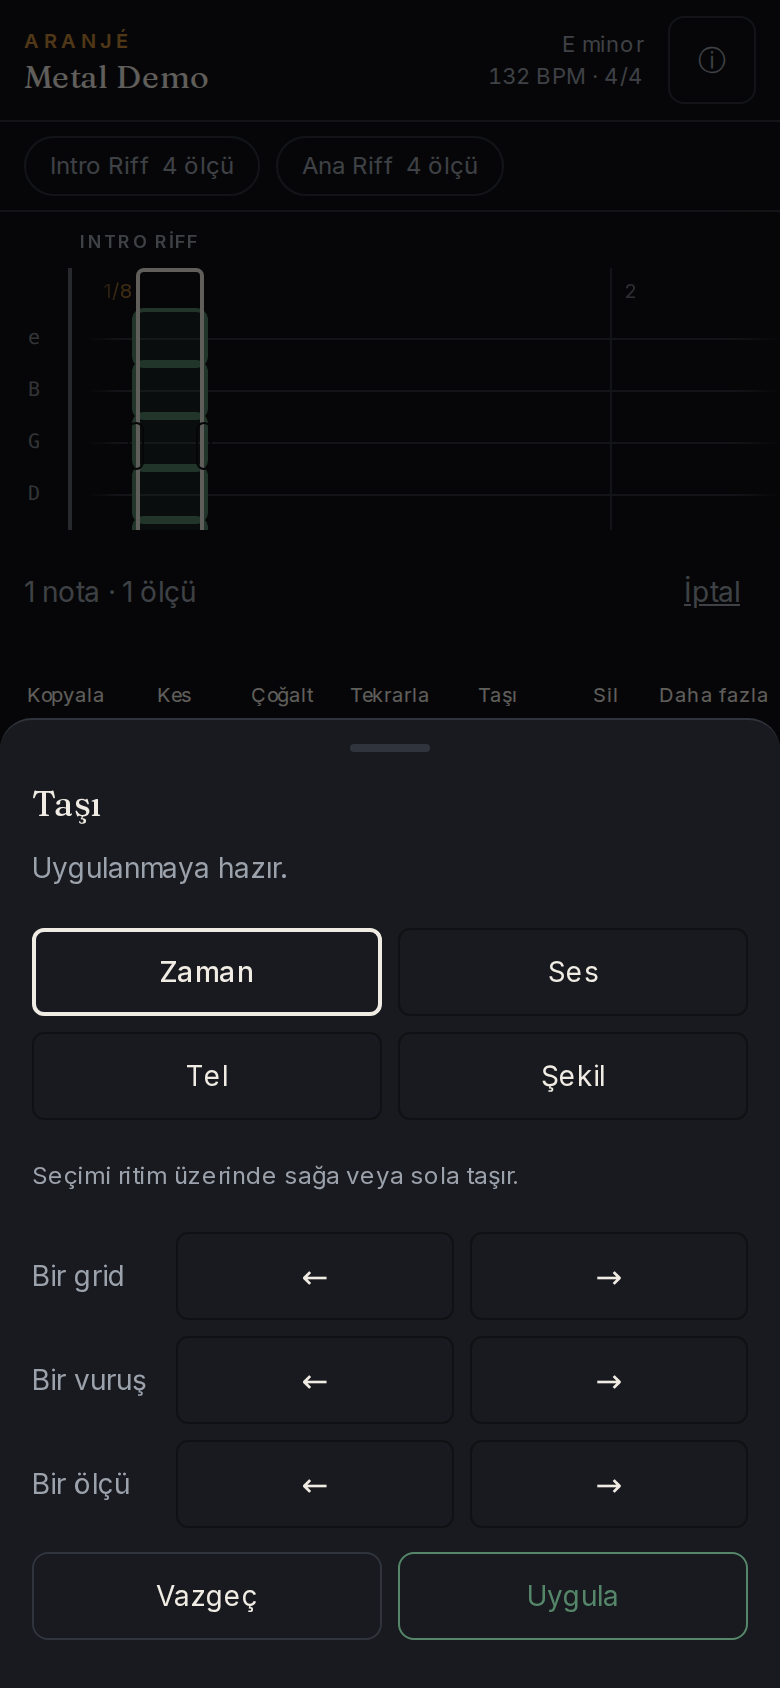
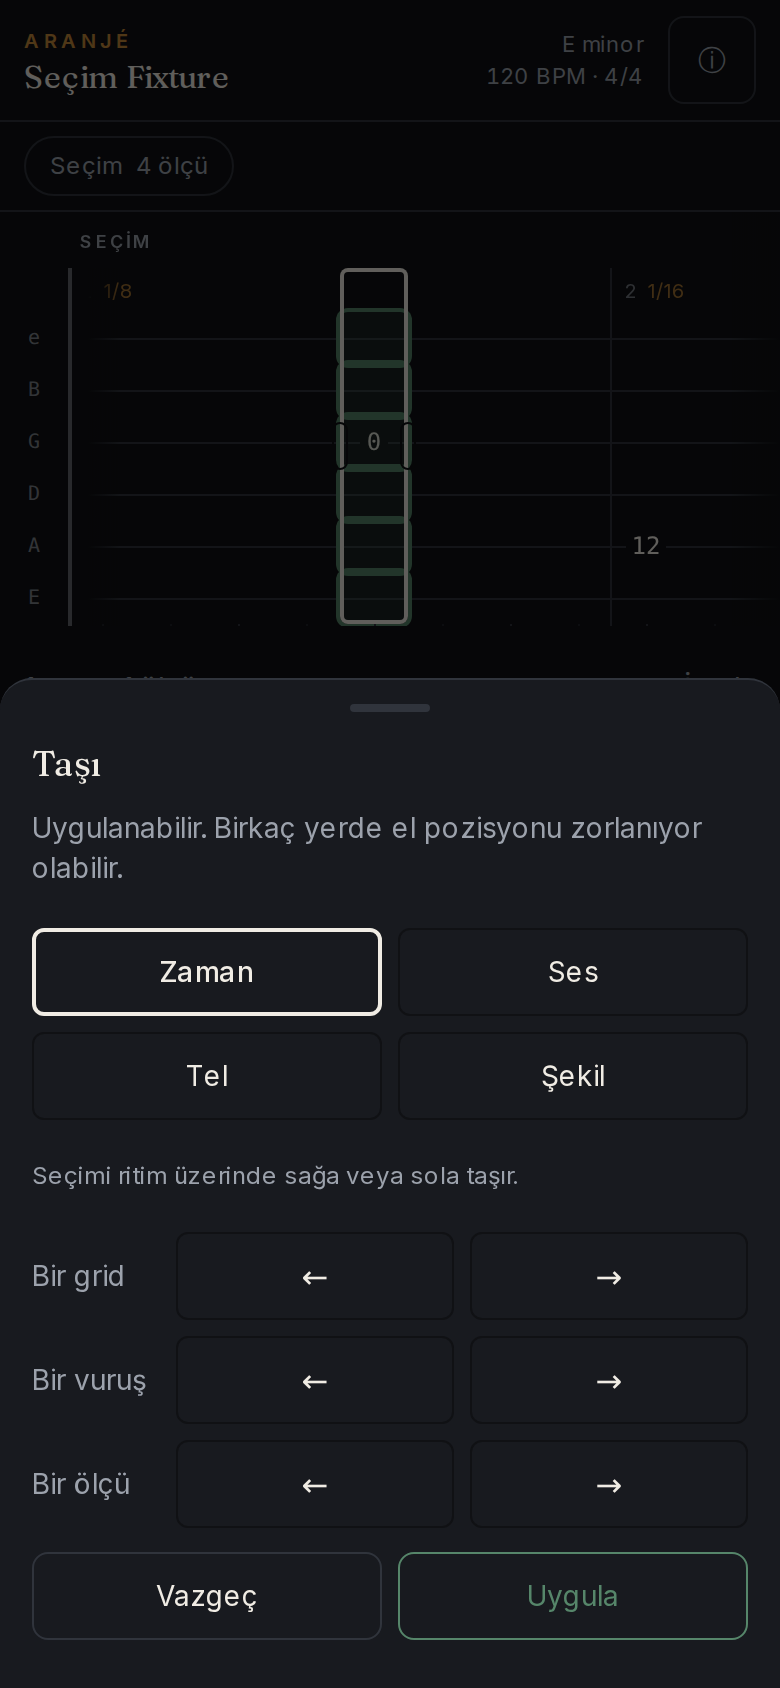
2I-B: a fixture song built for the selection tests
The demo song cannot exercise this checkpoint, and pretending otherwise was
producing failures that looked like product bugs. Its bars are fully written,
so every time move is correctly refused and "one write per commit" has nowhere
to land — the 320px run searched 24 grid steps in both directions and found no
free destination, which is the song being dense rather than the app being
wrong. It also has no power chord, no alternate tuning and no capo, so shape
translation and the fretboard arithmetic were untestable.

The fixture is sparse and deliberately awkward: a power chord then rests, a
1/16 bar beside a 1/8 one so a move crosses a grid change, a 1/8 triplet bar
where a straight moment cannot be expressed, a Drop D guitar and a capoed one.

It is seeded into localStorage before the app boots, so the app loads it
through its own normal path and no production code knows a test exists.

This unlocks the scenarios that were honestly uncovered: chord-as-group,
shape translation, transpose by half step and octave, same pitch on another
string, duplicate, and repeat.

Claude-Session: https://claude.ai/code/session_01CywG9dxjvVoeJit771av33

diff --git a/eval/selection-ui/make-fixture.ts b/eval/selection-ui/make-fixture.ts
@@ -1,0 +1,124 @@
+/**
+ * A song built for the selection tests, not for listening (spec 13.1, K-37).
+ *
+ * The demo song cannot exercise this checkpoint. Its bars are fully written, so
+ * every time move is refused for a real reason and the "one write per commit"
+ * claim has nowhere to land; it has no power chord, so shape translation cannot
+ * be tried; and it has no alternate tuning or capo, so the fretboard arithmetic
+ * is never stressed.
+ *
+ * So this fixture is deliberately sparse and deliberately odd:
+ *
+ * - Bar 1 holds a power chord and then rests, so a shape can move and a chord
+ *   can be selected as a group.
+ * - Bar 2 is a 1/16 bar next to a 1/8 one, so a move crosses a grid change.
+ * - Bar 3 is a 1/8 triplet, so an inexpressible destination can be reached.
+ * - One guitar is in Drop D, one is capoed.
+ *
+ * `npx tsx eval/selection-ui/make-fixture.ts`
+ */
+import { writeFileSync } from "node:fs";
+
+import { songSchema, type MelodicSlot, type Song } from "@/lib/song/schema";
+import { TUNING_PRESETS } from "@/lib/music/fretboard";
+
+const rest: MelodicSlot = null;
+
+/** Root, fifth and octave struck together — a power chord shape, no new type. */
+const power: MelodicSlot = {
+  notes: [
+    { pitch: "E2", position: { string: 0, fret: 0 }, velocity: 112 },
+    { pitch: "B2", position: { string: 1, fret: 2 }, velocity: 104 },
+    { pitch: "E3", position: { string: 2, fret: 2 }, velocity: 98, articulation: "accent" },
+  ],
+};
+
+const single = (pitch: string, string: number, fret: number): MelodicSlot => ({
+  notes: [{ pitch, position: { string, fret }, velocity: 100 }],
+});
+
+const pad = (written: readonly MelodicSlot[], count: number): MelodicSlot[] => [
+  ...written,
+  ...Array.from({ length: count - written.length }, () => rest),
+];
+
+const song: Song = songSchema.parse({
+  version: 2,
+  title: "Seçim Fixture",
+  bpm: 120,
+  key: "E minor",
+  tracks: [
+    {
+      id: "gtr",
+      name: "Gitar 1",
+      instrumentId: "electric_guitar",
+      presetId: "high_gain",
+      volumeDb: -4,
+      fretboard: { tuning: [...(TUNING_PRESETS.e_standard?.tuning ?? [])], capo: 0 },
+    },
+    {
+      id: "gtr-drop",
+      name: "Drop D",
+      instrumentId: "electric_guitar",
+      presetId: "crunch",
+      volumeDb: -5,
+      pan: -0.3,
+      fretboard: { tuning: [...(TUNING_PRESETS.drop_d?.tuning ?? [])], capo: 0 },
+    },
+    {
+      id: "gtr-capo",
+      name: "Capo 2",
+      instrumentId: "steel_acoustic",
+      presetId: "finger",
+      volumeDb: -5,
+      pan: 0.3,
+      fretboard: { tuning: [...(TUNING_PRESETS.e_standard?.tuning ?? [])], capo: 2 },
+    },
+  ],
+  sections: [
+    {
+      id: "sec-1",
+      name: "Seçim",
+      status: "fixed",
+      bars: [
+        // Sparse on purpose: room to move, duplicate and repeat into.
+        {
+          timeSignature: [4, 4],
+          resolution: 8,
+          slots: {
+            gtr: pad([power, rest, rest, rest, single("G3", 3, 0), rest, rest, rest], 8),
+            "gtr-drop": pad([single("D2", 0, 0), rest, rest, rest], 8),
+            "gtr-capo": pad([single("A3", 1, 10), rest, rest, rest], 8),
+          },
+        },
+        // A finer grid immediately after, so a move crosses a grid change.
+        {
+          timeSignature: [4, 4],
+          resolution: 16,
+          slots: {
+            gtr: pad([single("A3", 1, 12), rest, rest, rest], 16),
+            "gtr-drop": pad([], 16),
+            "gtr-capo": pad([], 16),
+          },
+        },
+        // A triplet grid, where a straight moment cannot be expressed.
+        {
+          timeSignature: [4, 4],
+          resolution: 12,
+          slots: {
+            gtr: pad([single("B3", 2, 9), rest, rest], 12),
+            "gtr-drop": pad([], 12),
+            "gtr-capo": pad([], 12),
+          },
+        },
+        { timeSignature: [4, 4], resolution: 8, slots: { gtr: pad([], 8), "gtr-drop": pad([], 8), "gtr-capo": pad([], 8) } },
+      ],
+    },
+  ],
+});
+
+writeFileSync("eval/selection-ui/fixture-song.json", `${JSON.stringify(song)}\n`);
+console.log(
+  `fixture: ${song.tracks.length} tracks, ${song.sections[0]?.bars.length} bars, ` +
+    `grids ${song.sections[0]?.bars.map((bar) => bar.resolution).join("/")}`,
+);
